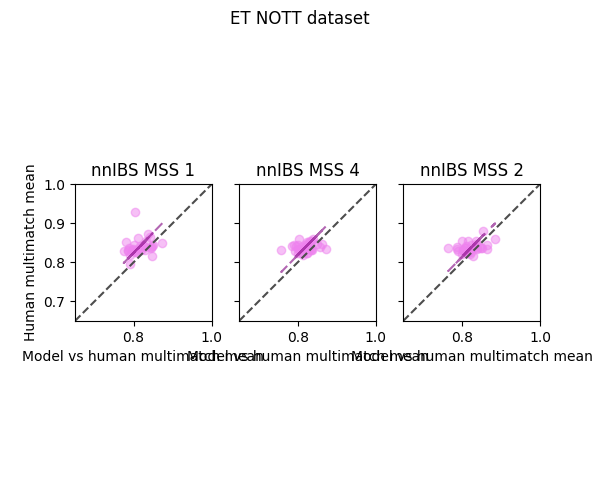
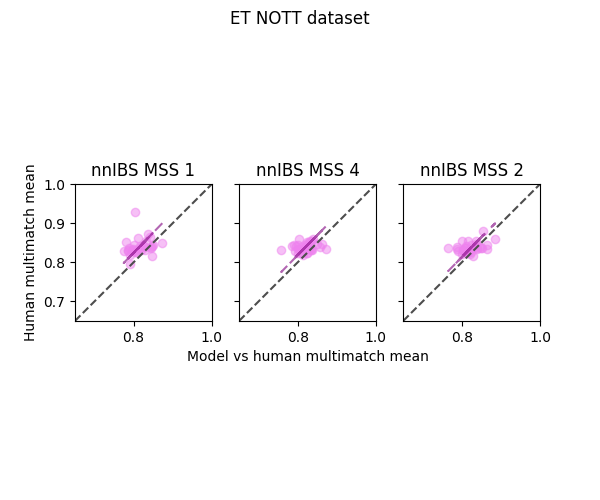
fix figuras

Changed region(s): [[0.57, 0.69, 0.99, 0.72], [0.03, 0.69, 0.45, 0.72]]

diff --git a/Metrics/scripts/multimatch.py b/Metrics/scripts/multimatch.py
@@ -47,10 +47,11 @@ class Multimatch:
             lims = [np.min([min_x, min_y]), np.max([max_x, max_y])]
             ax.plot(lims, lims, linestyle='dashed', c='.3')
 
-            ax.set(xlabel='Model vs human multimatch mean', ylabel='Human multimatch mean')
+            
             ax.label_outer()
             ax.set_box_aspect(1)
-
+        axs[0].set(ylabel='Human multimatch mean')
+        axs[int(len(axs)/2)].set(xlabel='Model vs human multimatch mean')
         fig.suptitle(self.dataset_name + ' dataset')
         plt.savefig(path.join(save_path, 'Multimatch against humans.png'))
         plt.show()

diff --git a/Metrics/scripts/utils.py b/Metrics/scripts/utils.py
@@ -11,7 +11,8 @@ from sklearn.model_selection import GridSearchCV
 from . import constants
 
 def plot_table(df, title, save_path, filename):
-    fig, ax = plt.subplots()
+
+    fig, ax = plt.subplots(figsize=(12,3))
     fig.patch.set_visible(False)
     ax.axis('off')
     ax.axis('tight')
@@ -23,7 +24,7 @@ def plot_table(df, title, save_path, filename):
     table.scale(1.5, 1.5)
 
     fig.suptitle(title)
-    fig.set_size_inches(14, 5)
+
     plt.savefig(path.join(save_path, filename))
     plt.show()
 
